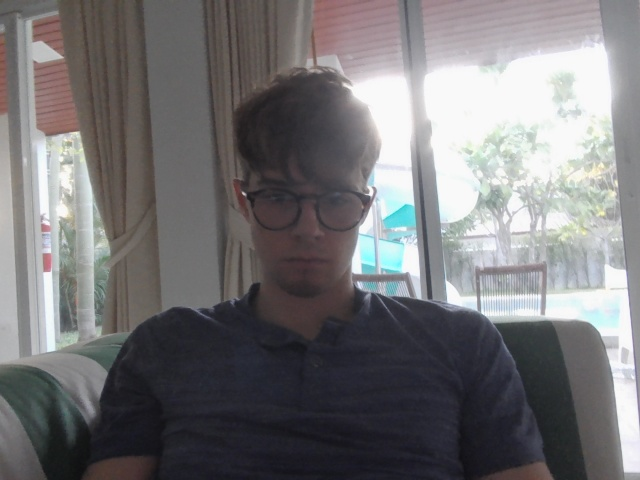
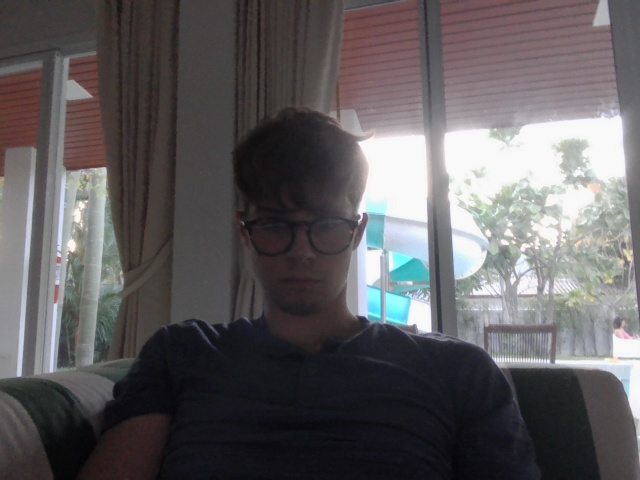
error handling

diff --git a/Computer Vision Project/gui/cleaning/mask.py b/Computer Vision Project/gui/cleaning/mask.py
@@ -37,6 +37,14 @@ class ImageProcessor:
                     self.rectangles.append((x, y, x + w, y + h))
 
     def apply_masks_and_save(self, output_path):
+        if self.mask is None:
+            print("Mask has not been created.")
+            return
+
+        if not self.rectangles:
+            print("No rectangles detected.")
+            return
+
         mask = np.zeros(self.image.shape[:2], dtype=np.uint8)
 
         for rect in self.rectangles:
@@ -46,7 +54,10 @@ class ImageProcessor:
         result[mask == 255] = self.image[mask == 255]
         result[self.mask > 0] = [255, 0, 255]
 
-        cv2.imwrite(output_path, result)
+        if cv2.imwrite(output_path, result):
+            print(f"Image saved successfully at {output_path}")
+        else:
+            print(f"Failed to save image at {output_path}")
 
     def process_additional_steps(self, intermediate_path, final_path, wall_text, sorted_wall_text):
         image = cv2.imread(intermediate_path)
